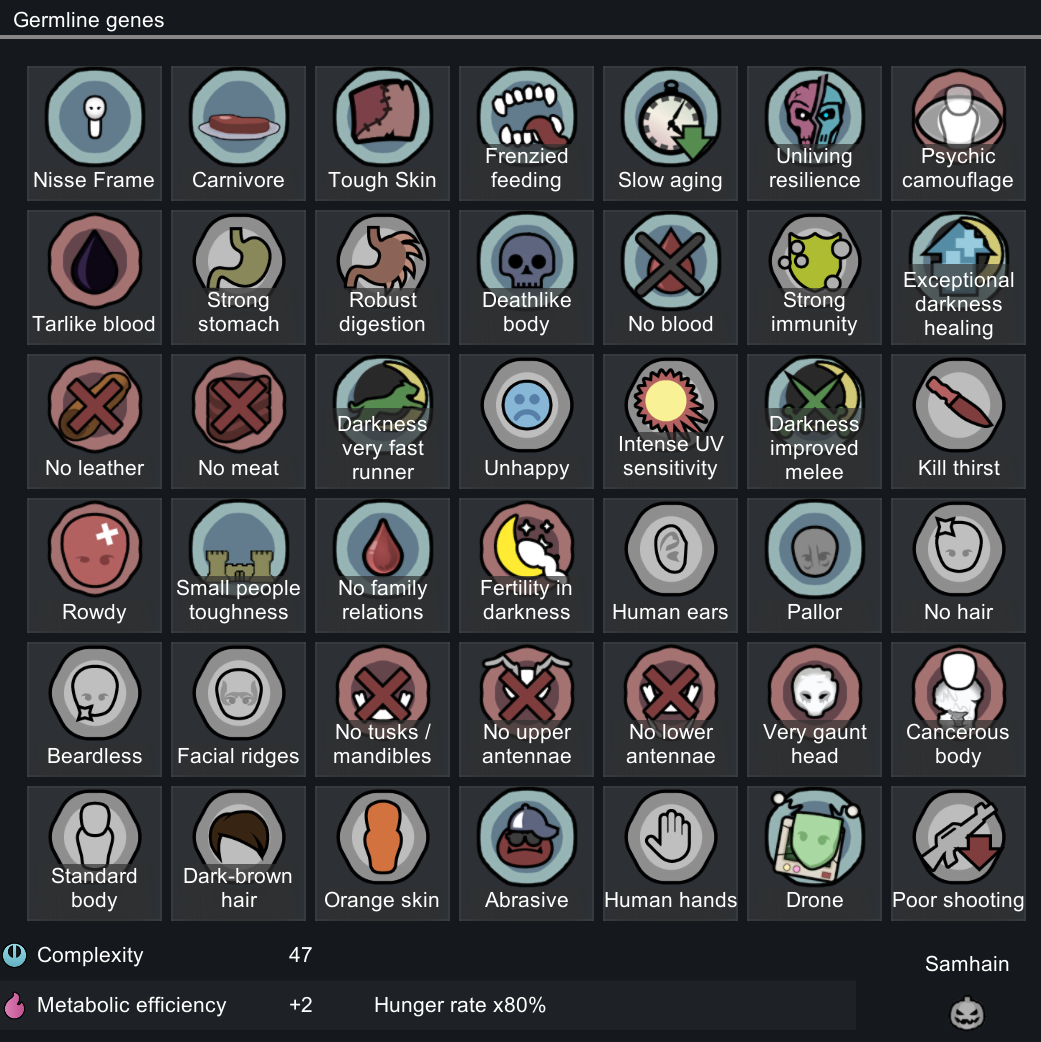
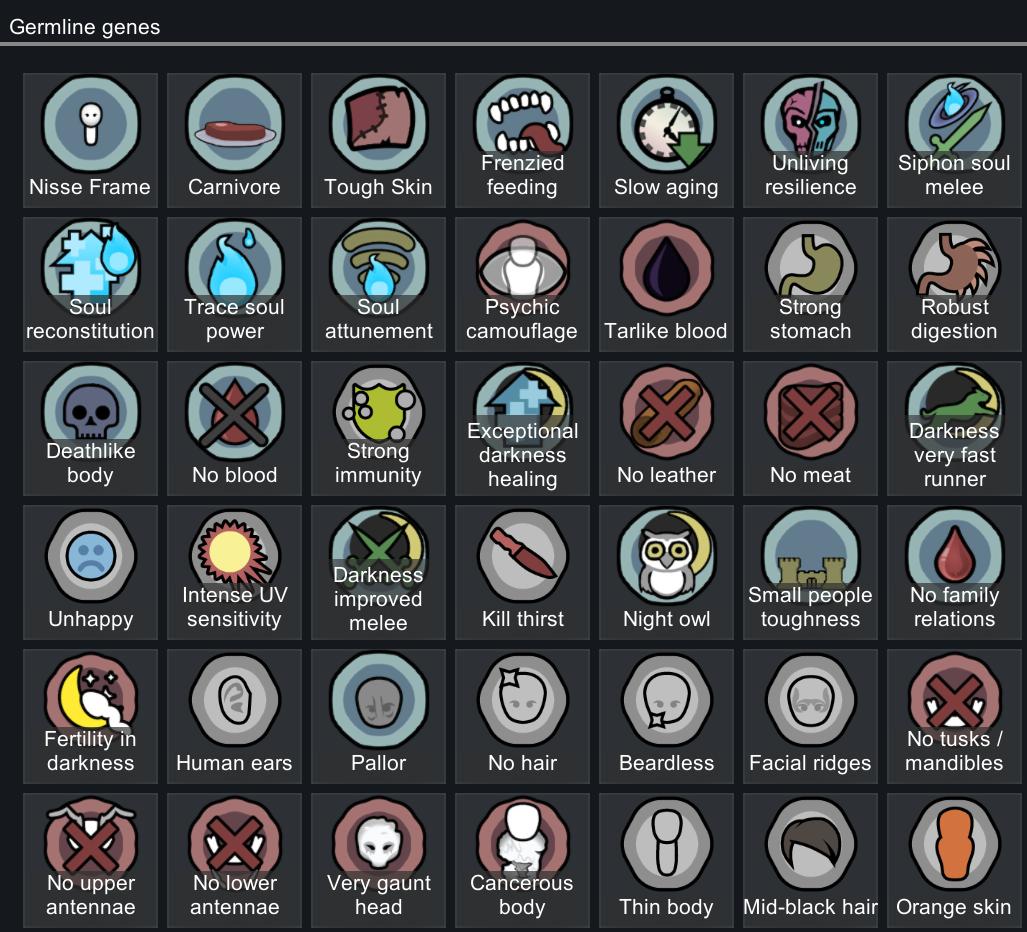
Needed to put one forcedTrait per gene because of a bug with a popular biotech patch that causes crash to desktop if genes force multiple traits.

diff --git a/README.md b/README.md
@@ -5,10 +5,8 @@ Small creepy nighttime xenotype perfect for carving raiders on warm Septober nig
 ## What You Get
 
 - Xenotype: Samhain.
-- Gene: Samhain.
-- Gene: Sweet Tooth which enables dessert need.
-- Gene: Costumed which enables anonymity need.
-- Scenario: Three Samhain 
+- Scenario: Three Samhain nomads looking for a place to settle.
+- No faction or random spawning in factions.
 
 ## Inspiration
 
@@ -18,26 +16,36 @@ Inspired by [Sam: The Soul of Halloween](https://samthesoulofhalloween.com/) cre
 
 They definitely aren't child-sized murder demons.
 
+- Psychopath, Night Owl, and Brawler traits; pain factor 0%, melee cooldown 0.75×, psychic sensitivity 1.15×, comfortable temperatures to −40°C to 20°C, Toxic Resistance.
+- **Vanilla:** strong immunity, digestion, dark vision, intense UV sensitivity, kill thirst, pessimism, appearance/body genes.
+- **Aptitudes:** Very strong melee-focused but poor shooting, artistic, social, intellectual aptitudes. Unable to research!
+- **Big and Small:** small frame, toughness, feeding frenzy, slow aging, unliving/no-blood and carnivore traits, darkness-related combat and healing, soul-power genes.
+- **Alpha Genes:** tar blood, invisibility, darkness-linked fertility, gaunt/cancerous appearance.
+
 ## Requirements
 
 - Biotech DLC
 - [Alpha Genes](https://steamcommunity.com/sharedfiles/filedetails/?id=2891845502)
 - [Big & Small: Genes and More](https://steamcommunity.com/sharedfiles/filedetails/?id=2920751126)
+- And their requirements.
 
 ## Additional Content
 
 These aren't required but they unlock additional content.
 
-- [Sam's Trick or Treat Costume](https://steamcommunity.com/sharedfiles/itemedittext/?id=3827335380) - adds costumes to the starting scenario
-- COMING SOON: Samhain Xenotype - Hungry and Hidden Add-on
+- [Sam's Trick or Treat Costume](https://steamcommunity.com/sharedfiles/itemedittext/?id=3827335380) - adds costumes to the starting scenario.
+- COMING SOON: Samhain Xenotype - Hungry and Hidden Add-on to active the Costumed and Sweet Tooth genes.
 
-## Recommended
+## Recommended Mods
 
-- [Automatic Nightowl](https://steamcommunity.com/sharedfiles/filedetails/?id=2056012179) - Samhain all have the night owl trait.
+Samhain are night owls so [Automatic Nightowl](https://steamcommunity.com/sharedfiles/filedetails/?id=2056012179) will automatically set the sleeping schedule.
+
+Samhain are much better at melee than shooting so use [Tweaks Galore](https://steamcommunity.com/sharedfiles/filedetails/?id=2695164414) to enable "Hunters can use melee".
 
 ## Technical Details
 
-- Xenotype is XML-only by combining genes from Alpha Genes + Big and Small
+- Xenotype is XML-only by combining genes from Alpha Genes + Big and Small.
+- People can use it with less requirements and conflicts there are only fairly standard dependancies.
 
 ## Language Support
 

diff --git a/Docs/AI.md b/Docs/AI.md
@@ -5,9 +5,9 @@ This is a free mod with an AI disclosure so you can easily avoid it if that is y
 ## How AI was used
 
 - [Atlas](https://github.com/lordfelixmotosr/atlas)
-  - scaffolding, publishing, testing, machine translation
+  - scaffolding, publishing, reviewing, testing, machine translation
 - GTP-6 Luna
-  - 3 gene icons
+  - 5 gene icons
   - 1 xenotype icon
 
 ## Anti-AI

diff --git a/Docs/TODO.md b/Docs/TODO.md
@@ -1,4 +1,2 @@
 # TODO
 
-Add dark vision.
-Brawler?
